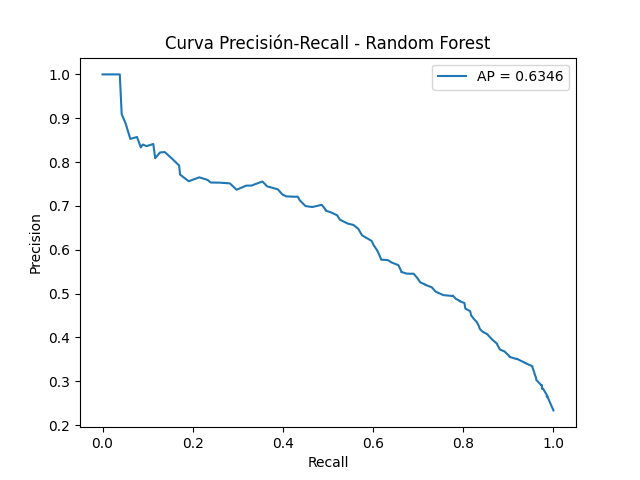
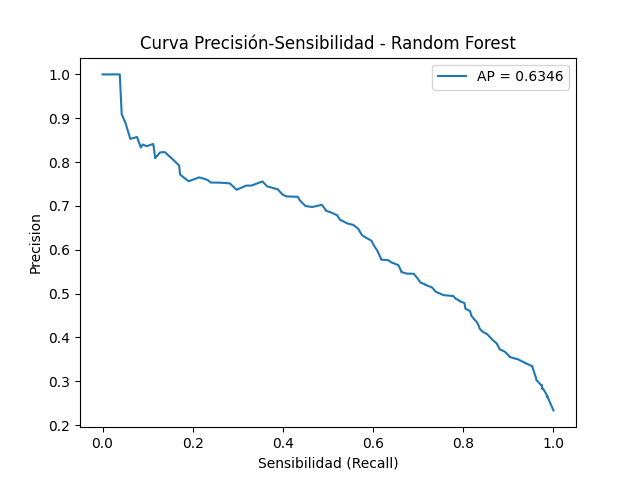
ultima version

Changed region(s): [[0.2188, 0.0625, 0.8125, 0.125], [0.4062, 0.9375, 0.625, 1.0]]

diff --git a/02_scripts/3_ML.py b/02_scripts/3_ML.py
@@ -61,11 +61,16 @@ modelo.fit(X_train, y_train)
 # 3.2 Evalucación del modelo
 # 3.2.1 Generación de las predicciones usando el test set
 y_pred = modelo.predict(X_test)
+# 3.2.2 Cálculo de la probablidad de cada proteína de ser una diana molecular.
+#   [:, 1] selecciona la probabilidad de todas las proteínas de ser drug_target (columna 1).
+#   predict_proba devuelve la probabilidad de cada proteína de ser drug target.
+y_prob = modelo.predict_proba(X_test)[:, 1]
 
-# 3.2.2 Comparación de las predicciones calculando las métricas:
-#   - precision: mide la fiabilidad de las predicciones postivas, es la proporción de proteínas predichas como drug target que realmente lo son
-#   - recall: mide la capacidad de del modelo para no perder casos positivos, proporción de drug targets reales que el modelo ha sido capaz de identificar
-#   - f1-score: es la media harmónica de precision y recall
+# 3.2.3 Cuantificación de las predicciones calculando las métricas:
+#   - exactitud: mide la proporción de predicciones correctas sobre el total de casos
+#   - precisión: mide la fiabilidad de las predicciones postivas, es la proporción de proteínas predichas como drug target que realmente lo son
+#   - sensibilidad: mide la capacidad de del modelo para no perder casos positivos, proporción de drug targets reales que el modelo ha sido capaz de identificar
+#   - F1-score: es la media harmónica de precision y recall
 # Imprimo el informe de clasificación para evaluar el rendimiento del modelo en el test set.
 metrics = classification_report(y_test, y_pred)
 
@@ -75,7 +80,7 @@ with open("03_results/resultados.txt", "a") as f:
     f.write(metrics + "\n")
 print(metrics)
 
-# 3.2.3 Generación de la matriz de confusión
+# 3.2.4 Generación de la matriz de confusión
 # Genera una tabla que muestra cuántos casos el modelo clasificó correcta e incorrectamente
 conf_matrix = confusion_matrix(y_test, y_pred)
 
@@ -84,7 +89,17 @@ with open("03_results/resultados.txt", "a") as f:
     f.write(str(conf_matrix) + "\n")
 print(conf_matrix)
 
-# 3.2.4 Evaluación de la importancia de las features para hacer las predicciones
+# Cálculo de la especificidad a partir de la matriz de confusión
+TN = conf_matrix[0][0]
+FP = conf_matrix[0][1]
+specificity = TN / (TN + FP)
+
+# Guardo el resultado en el archivo de texto y lo muestro en la terminal
+with open("03_results/resultados.txt", "a") as f:
+    f.write(f"Especificidad: {specificity:.4f}\n\n")
+print(f"Especificidad: {specificity:.4f}")
+
+# 3.2.5 Evaluación de la importancia de las features para hacer las predicciones
 relevant_features = pd.DataFrame({
     "feature":X.columns,
     "importance": modelo.feature_importances_
@@ -94,12 +109,6 @@ relevant_features = pd.DataFrame({
 with open("03_results/resultados.txt", "a") as f:
     f.write(relevant_features.to_string() + "\n")
 print(relevant_features)
-
-# 3.2.5 Cálculo de la probablidad de cada proteína de ser una diana molecular.
-#   [:, 1] selecciona la probabilidad de todas las proteínas de ser drug_target (columna 1).
-#   predict_proba devuelve la probabilidad de cada proteína de ser drug target.
-
-y_prob = modelo.predict_proba(X_test)[:, 1]
 
 # 3.2.6 Cálculo de AUC
 # AUC (área bajo la curva) representa la probabilidad de que el modelo, si se le da un ejemplo positivo y negativo 
@@ -130,14 +139,14 @@ plt.legend()
 plt.savefig("03_results/curva_roc.png")
 plt.show()
 
-# 3.2.9 Curva precision-recall (PR) y el average precision.
-#  3.2.9.1 Cálculo de los valores de precision y recall
+# 3.2.8 Curva precision-recall (PR) y el average precision.
+#  3.2.8.1 Cálculo de los valores de precision y recall
 #   precision: el ratio de clasificaciones correctas de nuestro clasificador (true + false positive)
 #   recall: l ratio de positivos detectado en el dataset por nuestro clasificador (true positive + false negative)
 #   _ descarta el valor de theresholds que no se va a usar para dibujar la curva
 precision, recall, _ = precision_recall_curve(y_test, y_prob)
 
-# 3.2.9.2 Cálculo de average precision.
+# 3.2.8.2 Cálculo de average precision.
 #   average precision: el área bajo la curva PR.
 ap = average_precision_score(y_test, y_prob)
 with open("03_results/resultados.txt", "a") as f:
@@ -145,12 +154,12 @@ with open("03_results/resultados.txt", "a") as f:
     f.write("-" * 40 + "\n")
 print(f"Average Precision: {ap:.4f}")
 
-# 3.2.9.3 Generación del gráfico de la curva PR
+# 3.2.8.3 Generación del gráfico de la curva PR
 plt.figure()
 plt.plot(recall, precision, label=f"AP = {ap:.4f}")
-plt.xlabel("Recall")
+plt.xlabel("Sensibilidad (Recall)")
 plt.ylabel("Precision")
-plt.title("Curva Precisión-Recall - Random Forest")
+plt.title("Curva Precisión-Sensibilidad - Random Forest")
 plt.legend()
 plt.savefig("03_results/curva_precision_recall.png")
 plt.show()

diff --git a/02_scripts/4_model_valid.py b/02_scripts/4_model_valid.py
@@ -42,12 +42,12 @@ cv_results = cross_validate(modelo, X, y, cv=cv, scoring=["f1", "precision", "re
 with open("03_results/resultados.txt", "a") as f:
     f.write("Resultados de la validación del modelo:\n")
     f.write(f"F1 promedio:            {cv_results['test_f1'].mean():.4f}\n")
-    f.write(f"Precision promedio:     {cv_results['test_precision'].mean():.4f}\n")
-    f.write(f"Recall promedio:        {cv_results['test_recall'].mean():.4f}\n")
-    f.write(f"Desviacion estandar F1: {cv_results['test_f1'].std():.4f}\n")
+    f.write(f"Precisión promedio:     {cv_results['test_precision'].mean():.4f}\n")
+    f.write(f"Sensibilidad promedio:        {cv_results['test_recall'].mean():.4f}\n")
+    f.write(f"Desviación estándar F1: {cv_results['test_f1'].std():.4f}\n")
     f.write("-" * 40 + "\n")
 print("Resultados de la validacion")
 print(f"F1 promedio:            {cv_results['test_f1'].mean():.4f}")
-print(f"Precision promedio:     {cv_results['test_precision'].mean():.4f}")
-print(f"Recall promedio:        {cv_results['test_recall'].mean():.4f}")
-print(f"Desviacion estandar F1: {cv_results['test_f1'].std():.4f}")
+print(f"Precisión promedio:     {cv_results['test_precision'].mean():.4f}")
+print(f"Sensibilidad promedio:        {cv_results['test_recall'].mean():.4f}")
+print(f"Desviación estándar F1: {cv_results['test_f1'].std():.4f}")
